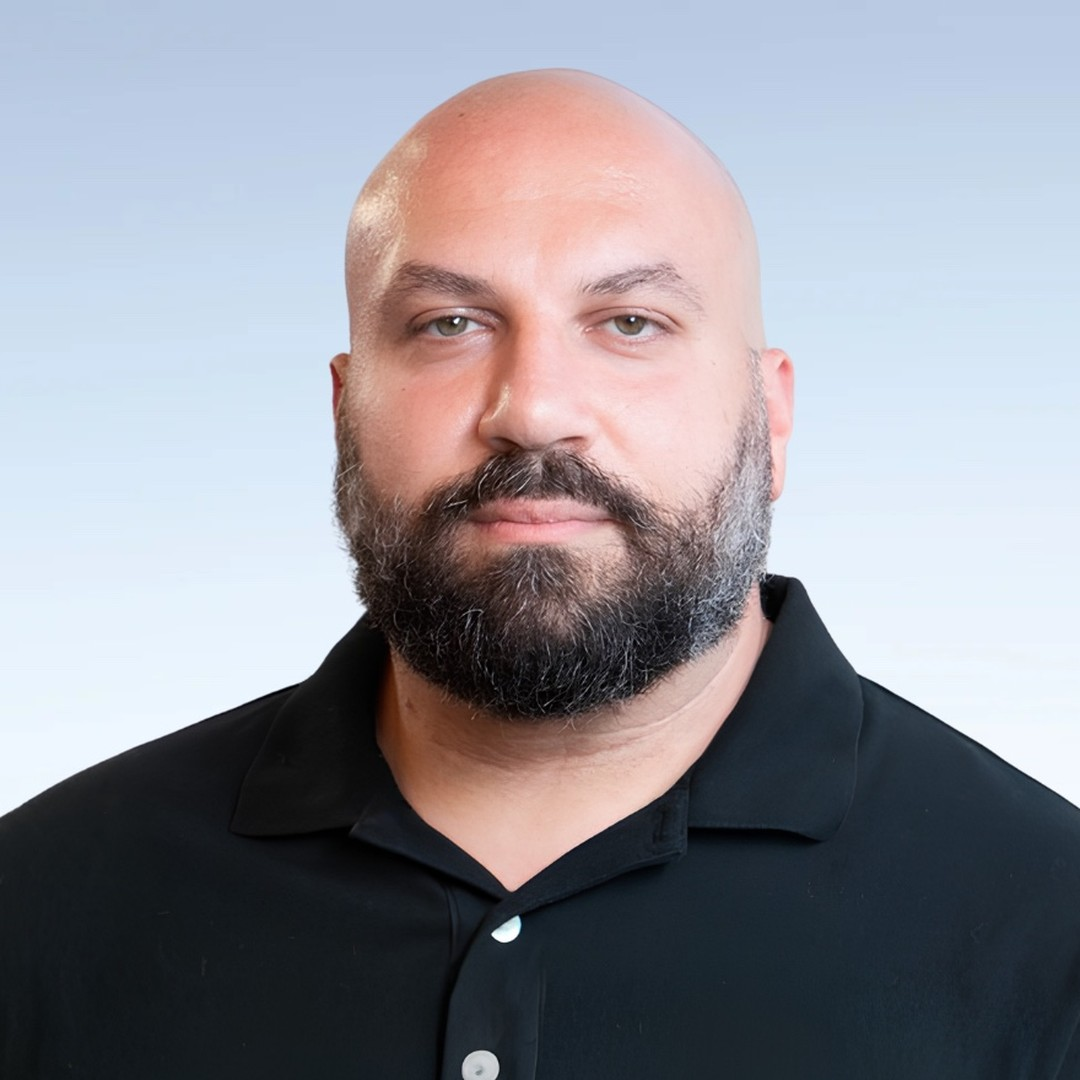
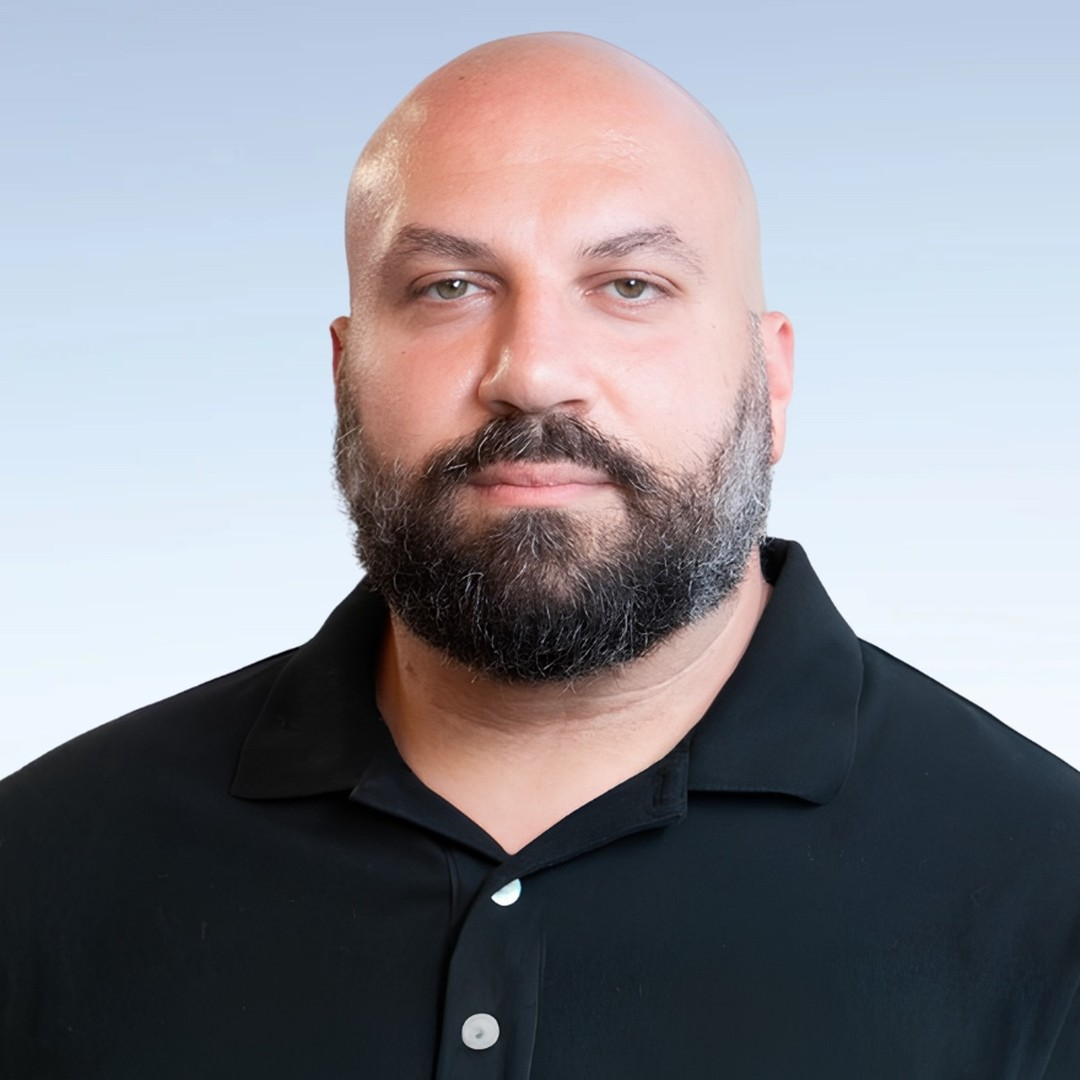
Raise Gevorg Ablabutyan's photo position
Claude-Session: https://claude.ai/code/session_01UY2yYSyHezMTLTrkPybDFD

diff --git a/team.html b/team.html
@@ -124,7 +124,7 @@
           <a class="more" href="adlea-lead-guide-bios.html#nathalie-karimian">Learn more &#8594;</a>
         </div>
         <div class="team-card">
-          <div class="team-photo"><img src="assets/gevorg-ablabutyan.jpg" alt="Gevorg Ablabutyan"></div>
+          <div class="team-photo"><img src="assets/gevorg-ablabutyan.jpg?v=2" alt="Gevorg Ablabutyan"></div>
           <h3>Gevorg Ablabutyan</h3>
           <p class="role"><a href="adlea-leadership-roles.html#technology-guide">Technology Guide</a></p>
           <a class="more" href="adlea-lead-guide-bios.html#gevorg-ablabutyan">Learn more &#8594;</a>

diff --git a/adlea-lead-guide-bios.html b/adlea-lead-guide-bios.html
@@ -198,7 +198,7 @@
       </div>
 
       <div id="gevorg-ablabutyan" class="bio-section">
-        <div class="bio-photo"><img src="assets/gevorg-ablabutyan.jpg" alt="Gevorg Ablabutyan"></div>
+        <div class="bio-photo"><img src="assets/gevorg-ablabutyan.jpg?v=2" alt="Gevorg Ablabutyan"></div>
         <div class="bio-text">
           <span class="eyebrow">Lead Guide</span>
           <h2>Gevorg Ablabutyan</h2>
